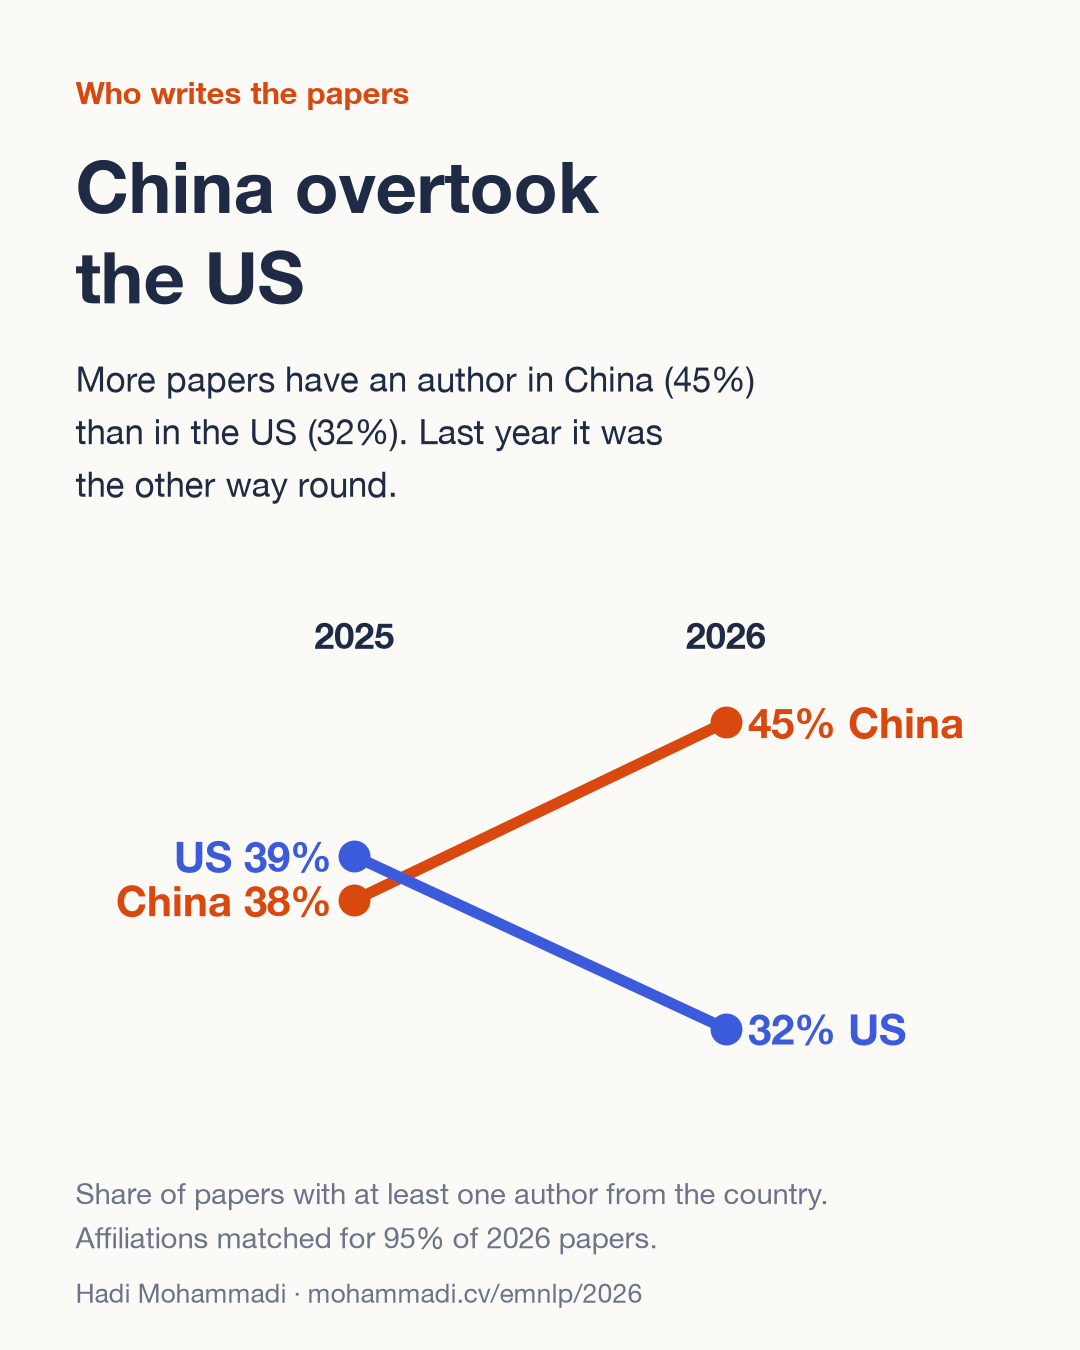
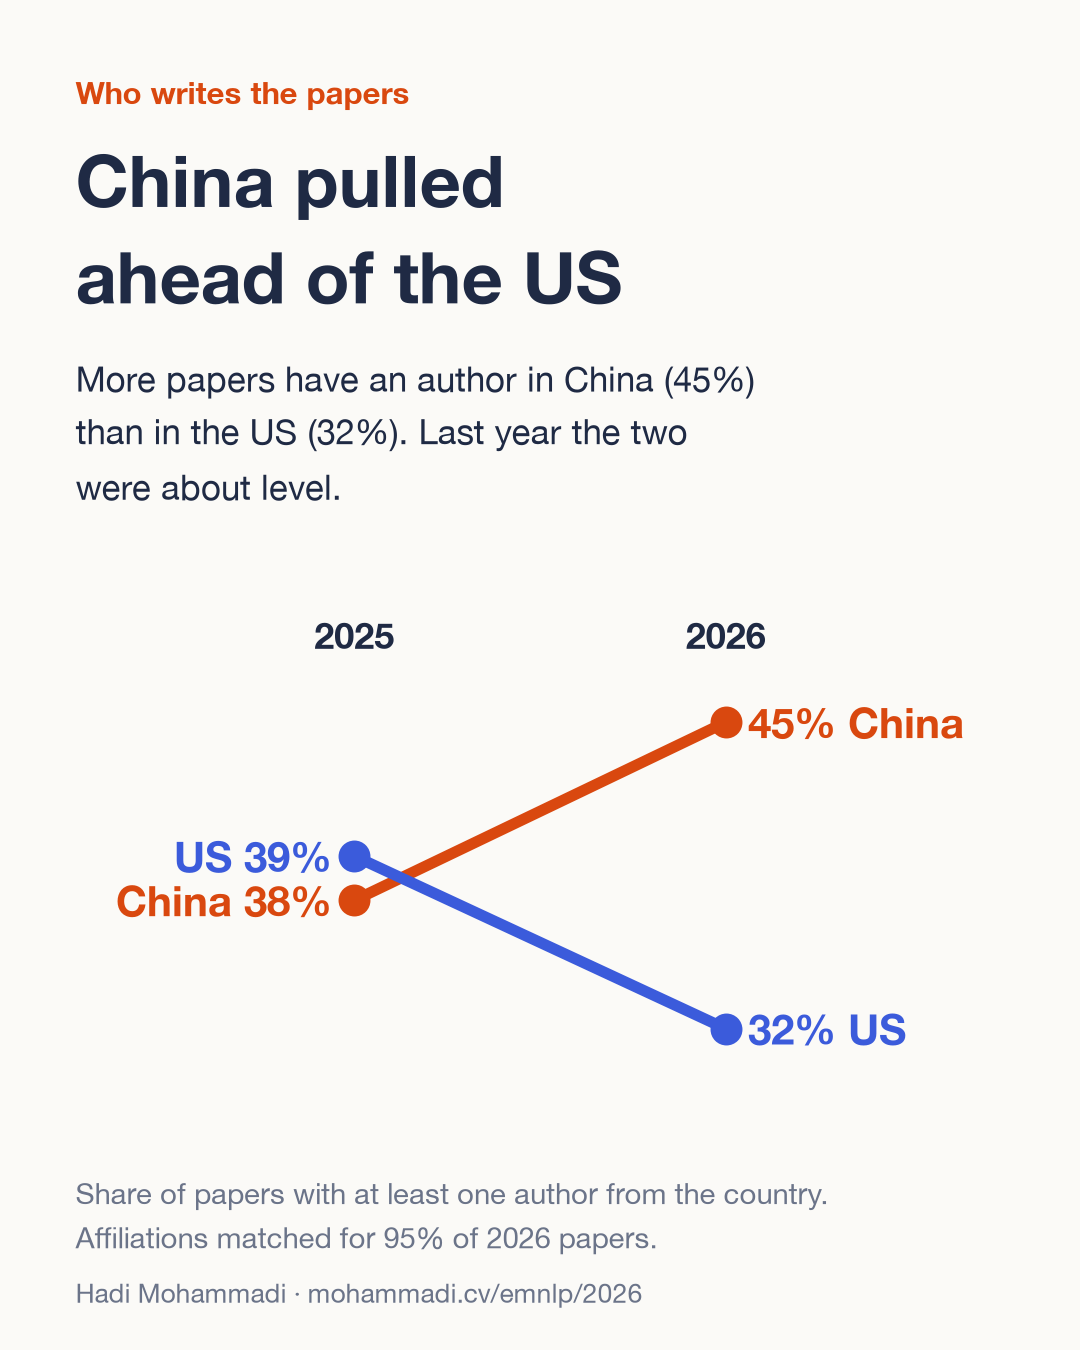
Say China and the US were level in 2025 instead of the other way round

diff --git a/src/14_carousel.py b/src/14_carousel.py
@@ -251,7 +251,7 @@ card("4_numbers.png", "What else changed", "Memory and RLVR\ntook off",
 
 # ================= 5. countries =================
 cc = {k_: x for k_, _, x in S[f"countries_{c}"]}; cp = {k_: x for k_, _, x in S[f"countries_{p}"]}
-assert cc["China"] > cc["USA"] and cp["USA"] > cp["China"], "the China / US order did not flip"
+assert cc["China"] > cc["USA"] and abs(cp["USA"] - cp["China"]) < 3, "China no longer leads, or last year was not level"
 cov = S["affiliation_coverage"][c]["papers_with_country_pct"]
 
 
@@ -272,9 +272,9 @@ def draw_countries(fig, box):
              linespacing=1.3)
 
 
-card("5_countries.png", "Who writes the papers", "China overtook\nthe US",
+card("5_countries.png", "Who writes the papers", "China pulled\nahead of the US",
      f"More papers have an author in China ({pct(cc['China'])})\nthan in the US ({pct(cc['USA'])}). "
-     "Last year it was\nthe other way round.", draw_countries, (0.07, 0.17, 0.86, 0.38))
+     "Last year the two\nwere about level.", draw_countries, (0.07, 0.17, 0.86, 0.38))
 
 # ================= 6. explore =================
 

diff --git a/report/BLOG.md b/report/BLOG.md
@@ -17,7 +17,7 @@ Each dot is a paper. You can search, zoom in and click any paper to get its PDF 
 - RL with verifiable rewards went from 3 papers to 89.
 - "Benchmark" is in 47% of papers, up from 37%.
 - Linguistics, multilinguality and translation fell from 9.8% to 7.0% of papers.
-- More papers have an author in China (45%) than in the US (32%). Last year it was the other way round.
+- More papers have an author in China (45%) than in the US (32%). Last year the two were about level.
 
 ![The 2026 map coloured by how each topic's share changed since 2025](../outputs/figures/field_moved.png)
 
